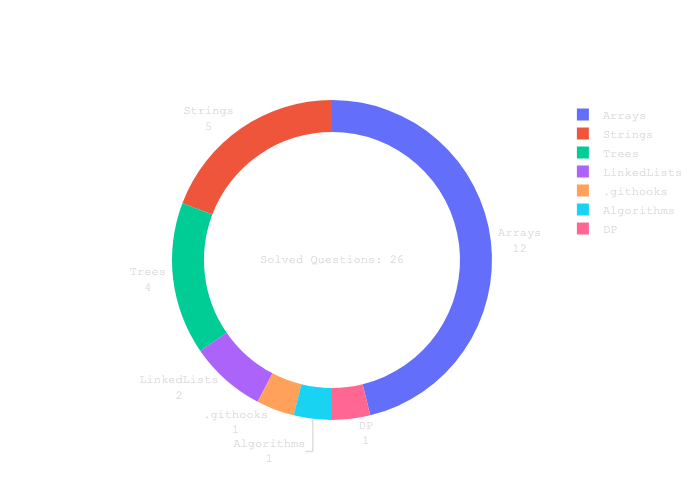
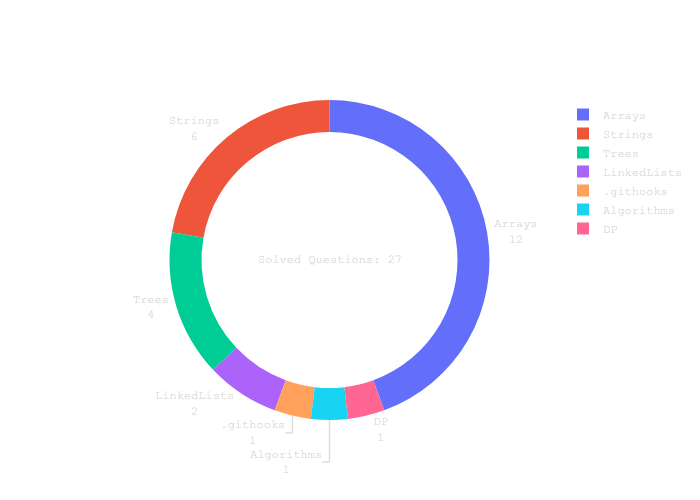
zigzagSolved

diff --git a/Strings/zigzagConversion.py b/Strings/zigzagConversion.py
@@ -1,0 +1,46 @@
+def printMatrix(matrix):
+    for row in matrix:
+        print(row)
+
+
+def convert(s: str, numRows: int) -> str:
+    if numRows == 1:
+        return s
+    # Find num cols
+    N = len(s)
+    letters = 0
+    cols = 0
+    while letters < N:
+        if numRows <= 2 or cols % (numRows - 1) == 0:
+            letters += numRows
+        else:
+            letters += 1
+        cols += 1
+    matrix = [[""] * cols for _ in range(numRows)]
+
+    N = len(matrix)
+    row = col = 0
+    dir = 1
+    for let in s:
+        matrix[row][col] = let
+        if dir == 1 and row < N - 1:
+            row += 1
+        else:
+            row -= 1
+            col += 1
+        if row == N - 1:
+            dir = 0
+        if row == 0:
+            dir = 1
+
+    # printMatrix(matrix)
+    res = ""
+    for row in matrix:
+        res += "".join(row)
+    return res
+
+
+print(convert("PAYPALISHIRING", 1))
+print(convert("PAYPALISHIRING", 2))
+print(convert("PAYPALISHIRING", 3))
+print(convert("PAYPALISHIRING", 4))
